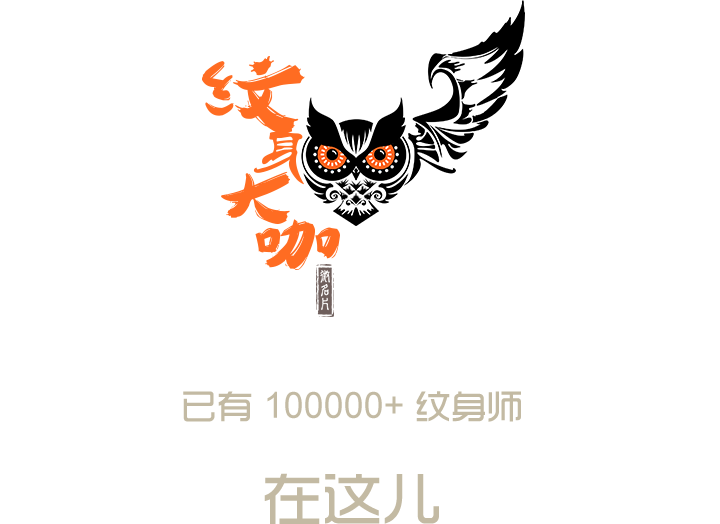
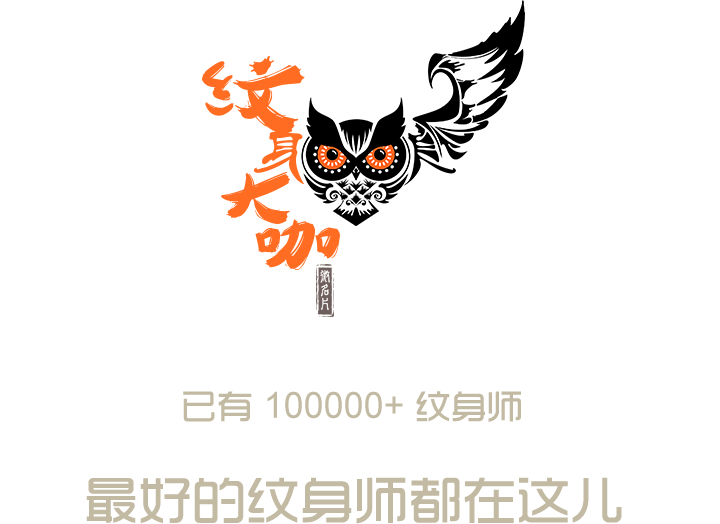
PC版删去百度分享按钮，移动版修改Slogan
手机版官网
- 修改了底部Slogan '在这儿' -> ‘最好的纹身师都在这儿’

PC版官网
- 删去  百度分享按钮

Changed region(s): [[0.1222, 0.8855, 0.8861, 1.0]]

diff --git a/index.html b/index.html
@@ -413,16 +413,16 @@
 
 <!--百度分享按钮 -->
 <script>
-    $('.nav li:eq(0)').click(function(){location.href='#s2'});
-    $('.nav li:eq(1)').click(function(){location.href='#s3'});
-    $('.nav li:eq(2)').click(function(){location.href='#s4'});
-    $('.backtop').click(function(){location.href='#top'});
+//    $('.nav li:eq(0)').click(function(){location.href='#s2'});
+//    $('.nav li:eq(1)').click(function(){location.href='#s3'});
+//    $('.nav li:eq(2)').click(function(){location.href='#s4'});
+//    $('.backtop').click(function(){location.href='#top'});
+//
+//
+//    window._bd_share_config = {"common": {"bdSnsKey": {}, "bdText": "纹身大咖，最好的纹身师都在这儿！", "bdDesc": "纹身大咖", "bdMini": "2", "bdMiniList": false, "bdPic": "", "bdStyle": "0", "bdSize": "16"}, "slide": {"type": "slide", "bdImg": "0", "bdPos": "right", "bdTop": "113.5"}};
+//    with (document)0[(getElementsByTagName('head')[0] || body).appendChild(createElement('script')).src = 'http://bdimg.share.baidu.com/static/api/js/share.js?v=89860593.js?cdnversion=' + ~(-new Date() / 36e5)];
 
-
-    window._bd_share_config = {"common": {"bdSnsKey": {}, "bdText": "纹身大咖，最好的纹身师都在这儿！", "bdDesc": "纹身大咖", "bdMini": "2", "bdMiniList": false, "bdPic": "", "bdStyle": "0", "bdSize": "16"}, "slide": {"type": "slide", "bdImg": "0", "bdPos": "right", "bdTop": "113.5"}};
-    with (document)0[(getElementsByTagName('head')[0] || body).appendChild(createElement('script')).src = 'http://bdimg.share.baidu.com/static/api/js/share.js?v=89860593.js?cdnversion=' + ~(-new Date() / 36e5)];
-
-    //    document.getElementById('download_url').href=document.getElementById('download_url').href+'?'+Date.now()+Math.random();
+//    document.getElementById('download_url').href=document.getElementById('download_url').href+'?'+Date.now()+Math.random();
 </script>
 </body>
 </html>
